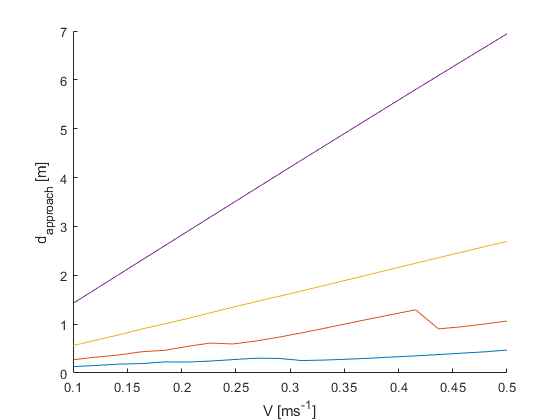
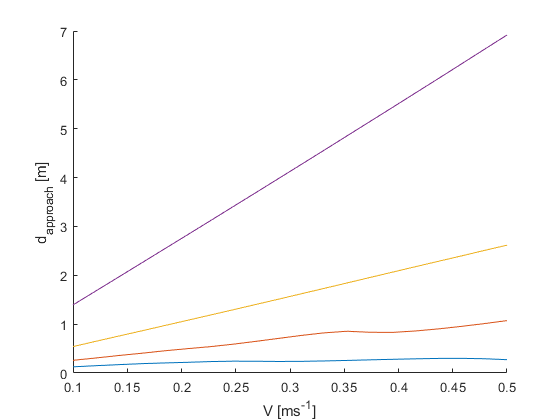
UPDATE

diff --git a/lab3/Para_Enviar_Lab_3/LOS_Study.m b/lab3/Para_Enviar_Lab_3/LOS_Study.m
@@ -26,6 +26,7 @@ Q1 = diag([2; 2; 2; 20; 20; 20])*2;
 R = diag([1 1 1]);
 k_w = 1;
 K = lqr(A,B,Q1,R);
+K = [zeros(3), K(:,4:6)];
 psi_ki = 0.1;
 psi_kp = -1;
 
